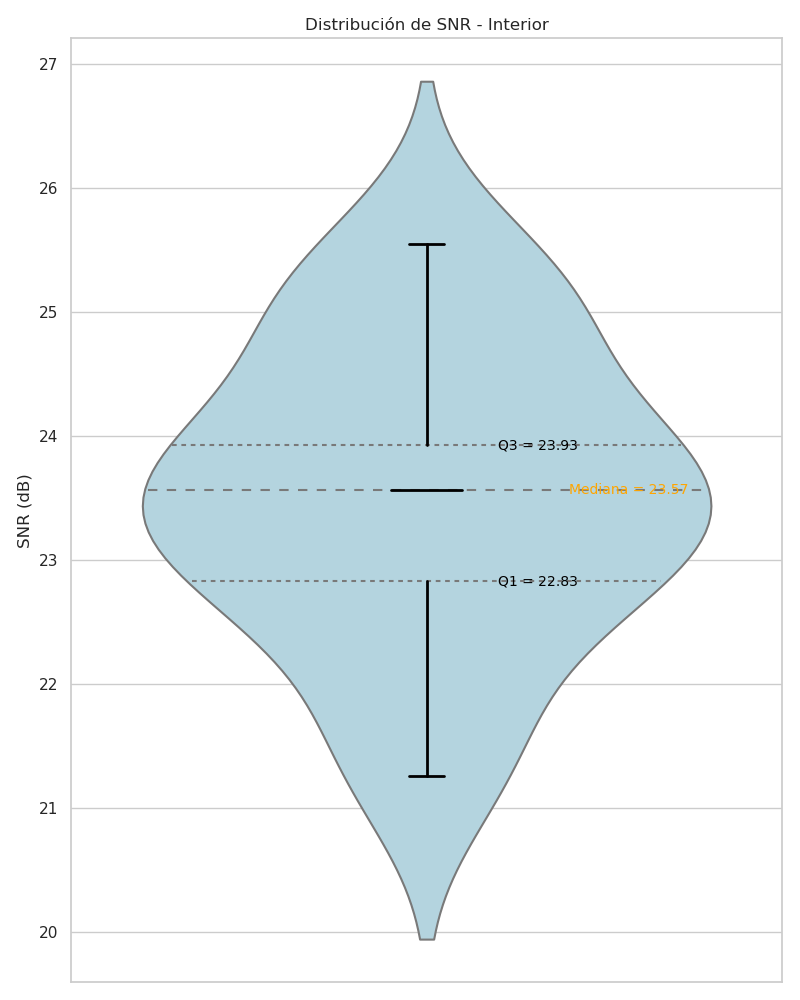
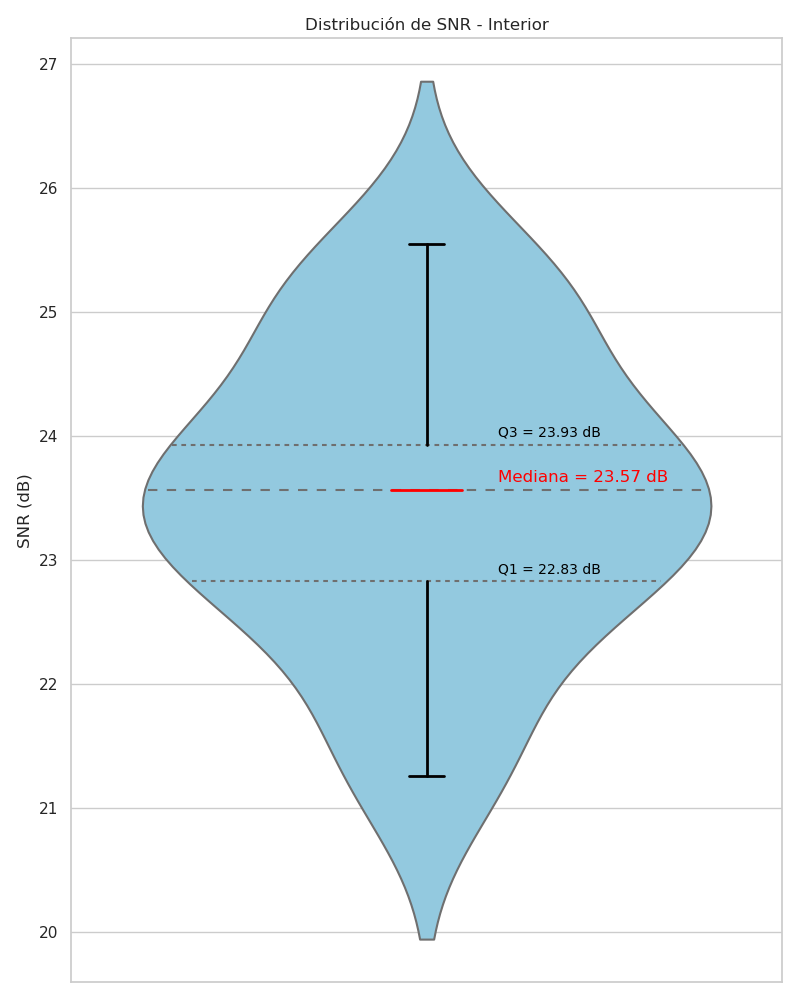
Sobre OOP

Changed region(s): [[0.1562, 0.062, 0.9062, 0.93]]

diff --git a/Laboratorio_SNR/Analisis/ambos.py b/Laboratorio_SNR/Analisis/ambos.py
@@ -1,0 +1,75 @@
+import pandas as pd
+import numpy as np
+import seaborn as sns
+import matplotlib.pyplot as plt
+import os
+
+# Asumiendo que las rutas de los archivos CSV son accesibles a través de las variables de entorno.
+csv_path_indoor = os.getenv('CSV_PATH_LAB')
+csv_path_outdoor = os.getenv('CSV_PATH')
+
+# Cargar y preparar los datos
+data1 = pd.read_csv(csv_path_indoor)  # Asumimos que este es tu conjunto de datos "indoor"
+data = pd.read_csv(csv_path_outdoor)  # Asumimos que este es tu conjunto de datos "outdoor"
+
+# Configurar el estilo de los gráficos
+sns.set(style="whitegrid")
+
+# Crear figura para los gráficos de violín para "indoor" y "outdoor"
+plt.figure(figsize=(16, 10))
+
+# -----------------------------
+# Gráfico de violín para "indoor"
+plt.subplot(1, 2, 1)
+sns.violinplot(y='SNR', data=data1, inner='quartile', color='skyblue')
+sns.boxplot(y='SNR', data=data1, width=0.1, fliersize=0, linewidth=2,
+            boxprops={'facecolor':'none', 'edgecolor':'black'},
+            whiskerprops={'color':'black'}, capprops={'color':'black'},
+            medianprops={'color':'red', 'linestyle':'-'}, showfliers=True)
+
+# Calculando y anotando estadísticas para "indoor"
+q1_indoor = data1['SNR'].quantile(0.25)
+median_indoor = data1['SNR'].median()
+q3_indoor = data1['SNR'].quantile(0.75)
+plt.text(0.1, median_indoor, f'Mediana: {median_indoor:.2f}', color='red')
+plt.text(0.1, q1_indoor, f'Q1: {q1_indoor:.2f}', color='black')
+plt.text(0.1, q3_indoor, f'Q3: {q3_indoor:.2f}', color='black')
+
+plt.title('Distribución de SNR - Interior')
+
+# -----------------------------
+# Gráfico de violín para "outdoor"
+plt.subplot(1, 2, 2)
+sns.violinplot(y='SNR', data=data, inner='quartile', color='skyblue')
+sns.boxplot(y='SNR', data=data, width=0.1, fliersize=0, linewidth=2,
+            boxprops={'facecolor':'none', 'edgecolor':'black'},
+            whiskerprops={'color':'black'}, capprops={'color':'black'},
+            medianprops={'color':'red', 'linestyle':'-'}, showfliers=True)
+
+# Calculando y anotando estadísticas para "outdoor"
+q1_outdoor = data['SNR'].quantile(0.25)
+median_outdoor = data['SNR'].median()
+q3_outdoor = data['SNR'].quantile(0.75)
+plt.text(0.1, median_outdoor, f'Mediana: {median_outdoor:.2f}', color='red')
+plt.text(0.1, q1_outdoor, f'Q1: {q1_outdoor:.2f}', color='black')
+plt.text(0.1, q3_outdoor, f'Q3: {q3_outdoor:.2f}', color='black')
+
+plt.title('Distribución de SNR - Exterior')
+
+# Guardar la figura combinada de ambos gráficos de violín en la carpeta 'img/'
+plt.tight_layout()
+plt.savefig('img/both_violins.png')
+
+# Si deseas combinar ambos gráficos de violín en un solo gráfico para comparación directa
+plt.figure(figsize=(8, 10))
+sns.violinplot(data=[data1['SNR'], data['SNR']], inner='quartile', palette=['skyblue', 'lightgreen'])
+plt.xticks([0, 1], ['Interior', 'Exterior'])
+plt.title('Distribución de SNR - Interior vs Exterior')
+plt.ylabel('SNR (dB)')
+
+# Guardar el gráfico combinado en una sola imagen en la carpeta 'img/'
+plt.tight_layout()
+plt.savefig('img/combined_violin.png')
+
+# Mostrar los gráficos
+#plt.show()

diff --git a/Laboratorio_SNR/Analisis/ambus.py b/Laboratorio_SNR/Analisis/ambus.py
@@ -1,0 +1,79 @@
+import pandas as pd
+import numpy as np
+import seaborn as sns
+import matplotlib.pyplot as plt
+import os
+
+# Asumiendo que las rutas de los archivos CSV son accesibles a través de las variables de entorno.
+csv_path_indoor = os.getenv('CSV_PATH_LAB')
+csv_path_outdoor = os.getenv('CSV_PATH')
+
+# Cargar y preparar los datos
+data1 = pd.read_csv(csv_path_indoor)  # Asumimos que este es tu conjunto de datos "indoor"
+data = pd.read_csv(csv_path_outdoor)  # Asumimos que este es tu conjunto de datos "outdoor"
+
+# Configurar el estilo de los gráficos
+sns.set(style="whitegrid")
+
+
+# Función para añadir anotaciones de estadísticas a los gráficos
+def add_annotations(ax, data):
+    q1 = data.quantile(0.25)
+    median = data.median()
+    q3 = data.quantile(0.75)
+    whisker_low = q1 - 1.5 * (q3 - q1)
+    whisker_high = q3 + 1.5 * (q3 - q1)
+
+    outliers = data[(data < whisker_low) | (data > whisker_high)]
+    for outlier in outliers:
+        ax.text(1, outlier, f'{outlier:.2f}', verticalalignment='center', size='small', color='red', ha='right')
+
+    ax.text(1, median, f'Mediana: {median:.2f}', color='red', ha='right')
+    ax.text(1, q1, f'Q1: {q1:.2f}', color='black', ha='right')
+    ax.text(1, q3, f'Q3: {q3:.2f}', color='black', ha='right')
+
+
+# -----------------------------
+# Gráficos de violín individuales para "indoor" y "outdoor"
+plt.figure(figsize=(16, 10))
+
+# "Indoor"
+plt.subplot(1, 2, 1)
+sns.violinplot(y='SNR', data=data1, inner='quartile', color='skyblue')
+sns.boxplot(y='SNR', data=data1, width=0.1, fliersize=0, linewidth=2,
+            boxprops={'facecolor': 'none', 'edgecolor': 'black'},
+            whiskerprops={'color': 'black'}, capprops={'color': 'black'},
+            medianprops={'color': 'red', 'linestyle': '-'}, showfliers=True)
+plt.title('Distribución de SNR - Interior')
+
+# "Outdoor"
+plt.subplot(1, 2, 2)
+sns.violinplot(y='SNR', data=data, inner='quartile', color='skyblue')
+sns.boxplot(y='SNR', data=data, width=0.1, fliersize=0, linewidth=2,
+            boxprops={'facecolor': 'none', 'edgecolor': 'black'},
+            whiskerprops={'color': 'black'}, capprops={'color': 'black'},
+            medianprops={'color': 'red', 'linestyle': '-'}, showfliers=True)
+plt.title('Distribución de SNR - Exterior')
+
+plt.tight_layout()
+plt.savefig('img/both_violins.png')
+
+# -----------------------------
+# Gráfico combinado de violín para "indoor" y "outdoor"
+plt.figure(figsize=(10, 8))
+combined_data = pd.concat([data1['SNR'], data['SNR']], axis=1)
+combined_data.columns = ['Interior', 'Exterior']
+sns.violinplot(data=combined_data, inner='quartile', palette=['skyblue', 'lightgreen'])
+
+# Añadir anotaciones
+ax = plt.gca()
+add_annotations(ax, data1['SNR'])
+add_annotations(ax, data['SNR'])
+
+plt.title('Distribución de SNR - Interior vs Exterior')
+plt.ylabel('SNR (dB)')
+
+plt.tight_layout()
+plt.savefig('img/combined_violin.png')
+
+# plt.show()

diff --git a/Laboratorio_SNR/Analisis/Outdoor.py b/Laboratorio_SNR/Analisis/Outdoor.py
@@ -98,18 +98,18 @@ plt.tight_layout()
 plt.savefig('img/Boxplot_SNR_Outdoor.png')
 #plt.show()
 
-## Violin
+################################### Violin   ##############################################
 # Asumiendo que tienes un DataFrame llamado 'data' y quieres graficar la columna 'SNR'
 plt.figure(figsize=(8, 10))  # Ajustar para la orientación vertical
 
 # Dibujar el gráfico de violín con la línea de la mediana y los cuartiles
-sns.violinplot(y='SNR', data=data, inner='quartile', color='lightblue')
+sns.violinplot(y='SNR', data=data, inner='quartile', color='skyblue')
 
 # Superponer un boxplot con parámetros que lo hagan visible pero no opaco
 box = sns.boxplot(y='SNR', data=data, width=0.1, fliersize=0, linewidth=2,
                   boxprops={'facecolor':'none', 'edgecolor':'black'},
                   whiskerprops={'color':'black'}, capprops={'color':'black'},
-                  medianprops={'color':'black'}, showfliers=True)
+                  medianprops={'color':'red'}, showfliers=True)
 
 # Calcular los cuartiles y la mediana
 q1 = data['SNR'].quantile(0.25)
@@ -120,9 +120,11 @@ q3 = data['SNR'].quantile(0.75)
 outliers = data[(data['SNR'] < q1 - 1.5 * (q3 - q1)) | (data['SNR'] > q3 + 1.5 * (q3 - q1))]['SNR']
 
 # Añadir anotaciones para la mediana y los cuartiles
-plt.text(0.1, median, f'Mediana = {median:.2f}', verticalalignment='center', size='small', color='orange')
-plt.text(0.1, q1, f'Q1 = {q1:.2f}', verticalalignment='center', size='small', color='black')
-plt.text(0.1, q3, f'Q3 = {q3:.2f}', verticalalignment='center', size='small', color='black')
+plt.text(0.1, median+0.1, f'Mediana = {median:.2f} dB', verticalalignment='center', size='medium', color='red')
+plt.text(0.1, q1+0.1, f'Q1 = {q1:.2f} dB', verticalalignment='center', size='small', color='black')
+plt.text(0.1, q3+0.1, f'Q3 = {q3:.2f} dB', verticalalignment='center', size='small', color='black')
+
+
 
 # Anotar los valores atípicos
 for outlier in outliers:

diff --git a/Laboratorio_SNR/Analisis/both_gg.py b/Laboratorio_SNR/Analisis/both_gg.py
@@ -1,0 +1,44 @@
+import pandas as pd
+import numpy as np
+import seaborn as sns
+import matplotlib.pyplot as plt
+import os
+
+# Asumiendo que las rutas de los archivos CSV son accesibles a través de las variables de entorno.
+csv_path_indoor = os.getenv('CSV_PATH_LAB')
+csv_path_outdoor = os.getenv('CSV_PATH')
+
+# Cargar y preparar los datos
+data1 = pd.read_csv(csv_path_indoor)  # Ajustar el código de limpieza como en indoor.py
+data = pd.read_csv(csv_path_outdoor)  # Ajustar el código de limpieza como en Outdoor.py
+
+# A continuación, se crea una figura con ambos gráficos de violín para interior y exterior.
+plt.figure(figsize=(16, 10))
+
+# Gráfico de violín para interior
+plt.subplot(1, 2, 1)
+sns.violinplot(y='SNR', data=data1, inner='quartile', palette='muted')
+plt.title('Distribución de SNR - Interior')
+
+# Gráfico de violín para exterior
+plt.subplot(1, 2, 2)
+sns.violinplot(y='SNR', data=data, inner='quartile', palette='muted')
+plt.title('Distribución de SNR - Exterior')
+
+# Guardar la figura combinada de ambos gráficos de violín.
+plt.tight_layout()
+plt.savefig('img/both_violins.png')
+
+# Si se desea combinar los dos gráficos de violín en un solo gráfico
+plt.figure(figsize=(8, 10))
+sns.violinplot(data=[data1['SNR'], data['SNR']], inner='quartile', palette=['skyblue', 'lightgreen'])
+plt.xticks([0, 1], ['Interior', 'Exterior'])
+plt.title('Distribución de SNR - Interior vs Exterior')
+plt.ylabel('SNR (dB)')
+
+# Guardar el gráfico combinado en una sola imagen
+plt.tight_layout()
+plt.savefig('img/combined_violin.png')
+
+# Mostrar los gráficos
+#plt.show()

diff --git a/ProgramacionCientifica/clases_OOP.py b/ProgramacionCientifica/clases_OOP.py
@@ -1,0 +1,18 @@
+# Sobre OOP
+
+class MyClass:
+    def __init__(self.value):
+        self.value = value
+
+    def method1(self):
+        #logica del metodo
+        return f"Method 1 executed with value: {self.value}"
+
+    def method2(self):
+        #logica del metodo
+        return f"Method 2 executed with value: {self.value}"
+
+    def __call__(self, new_value):
+        #logica del metodo
+        self.value = new_value
+        return f"Object updated with new_value: {self.value}"
